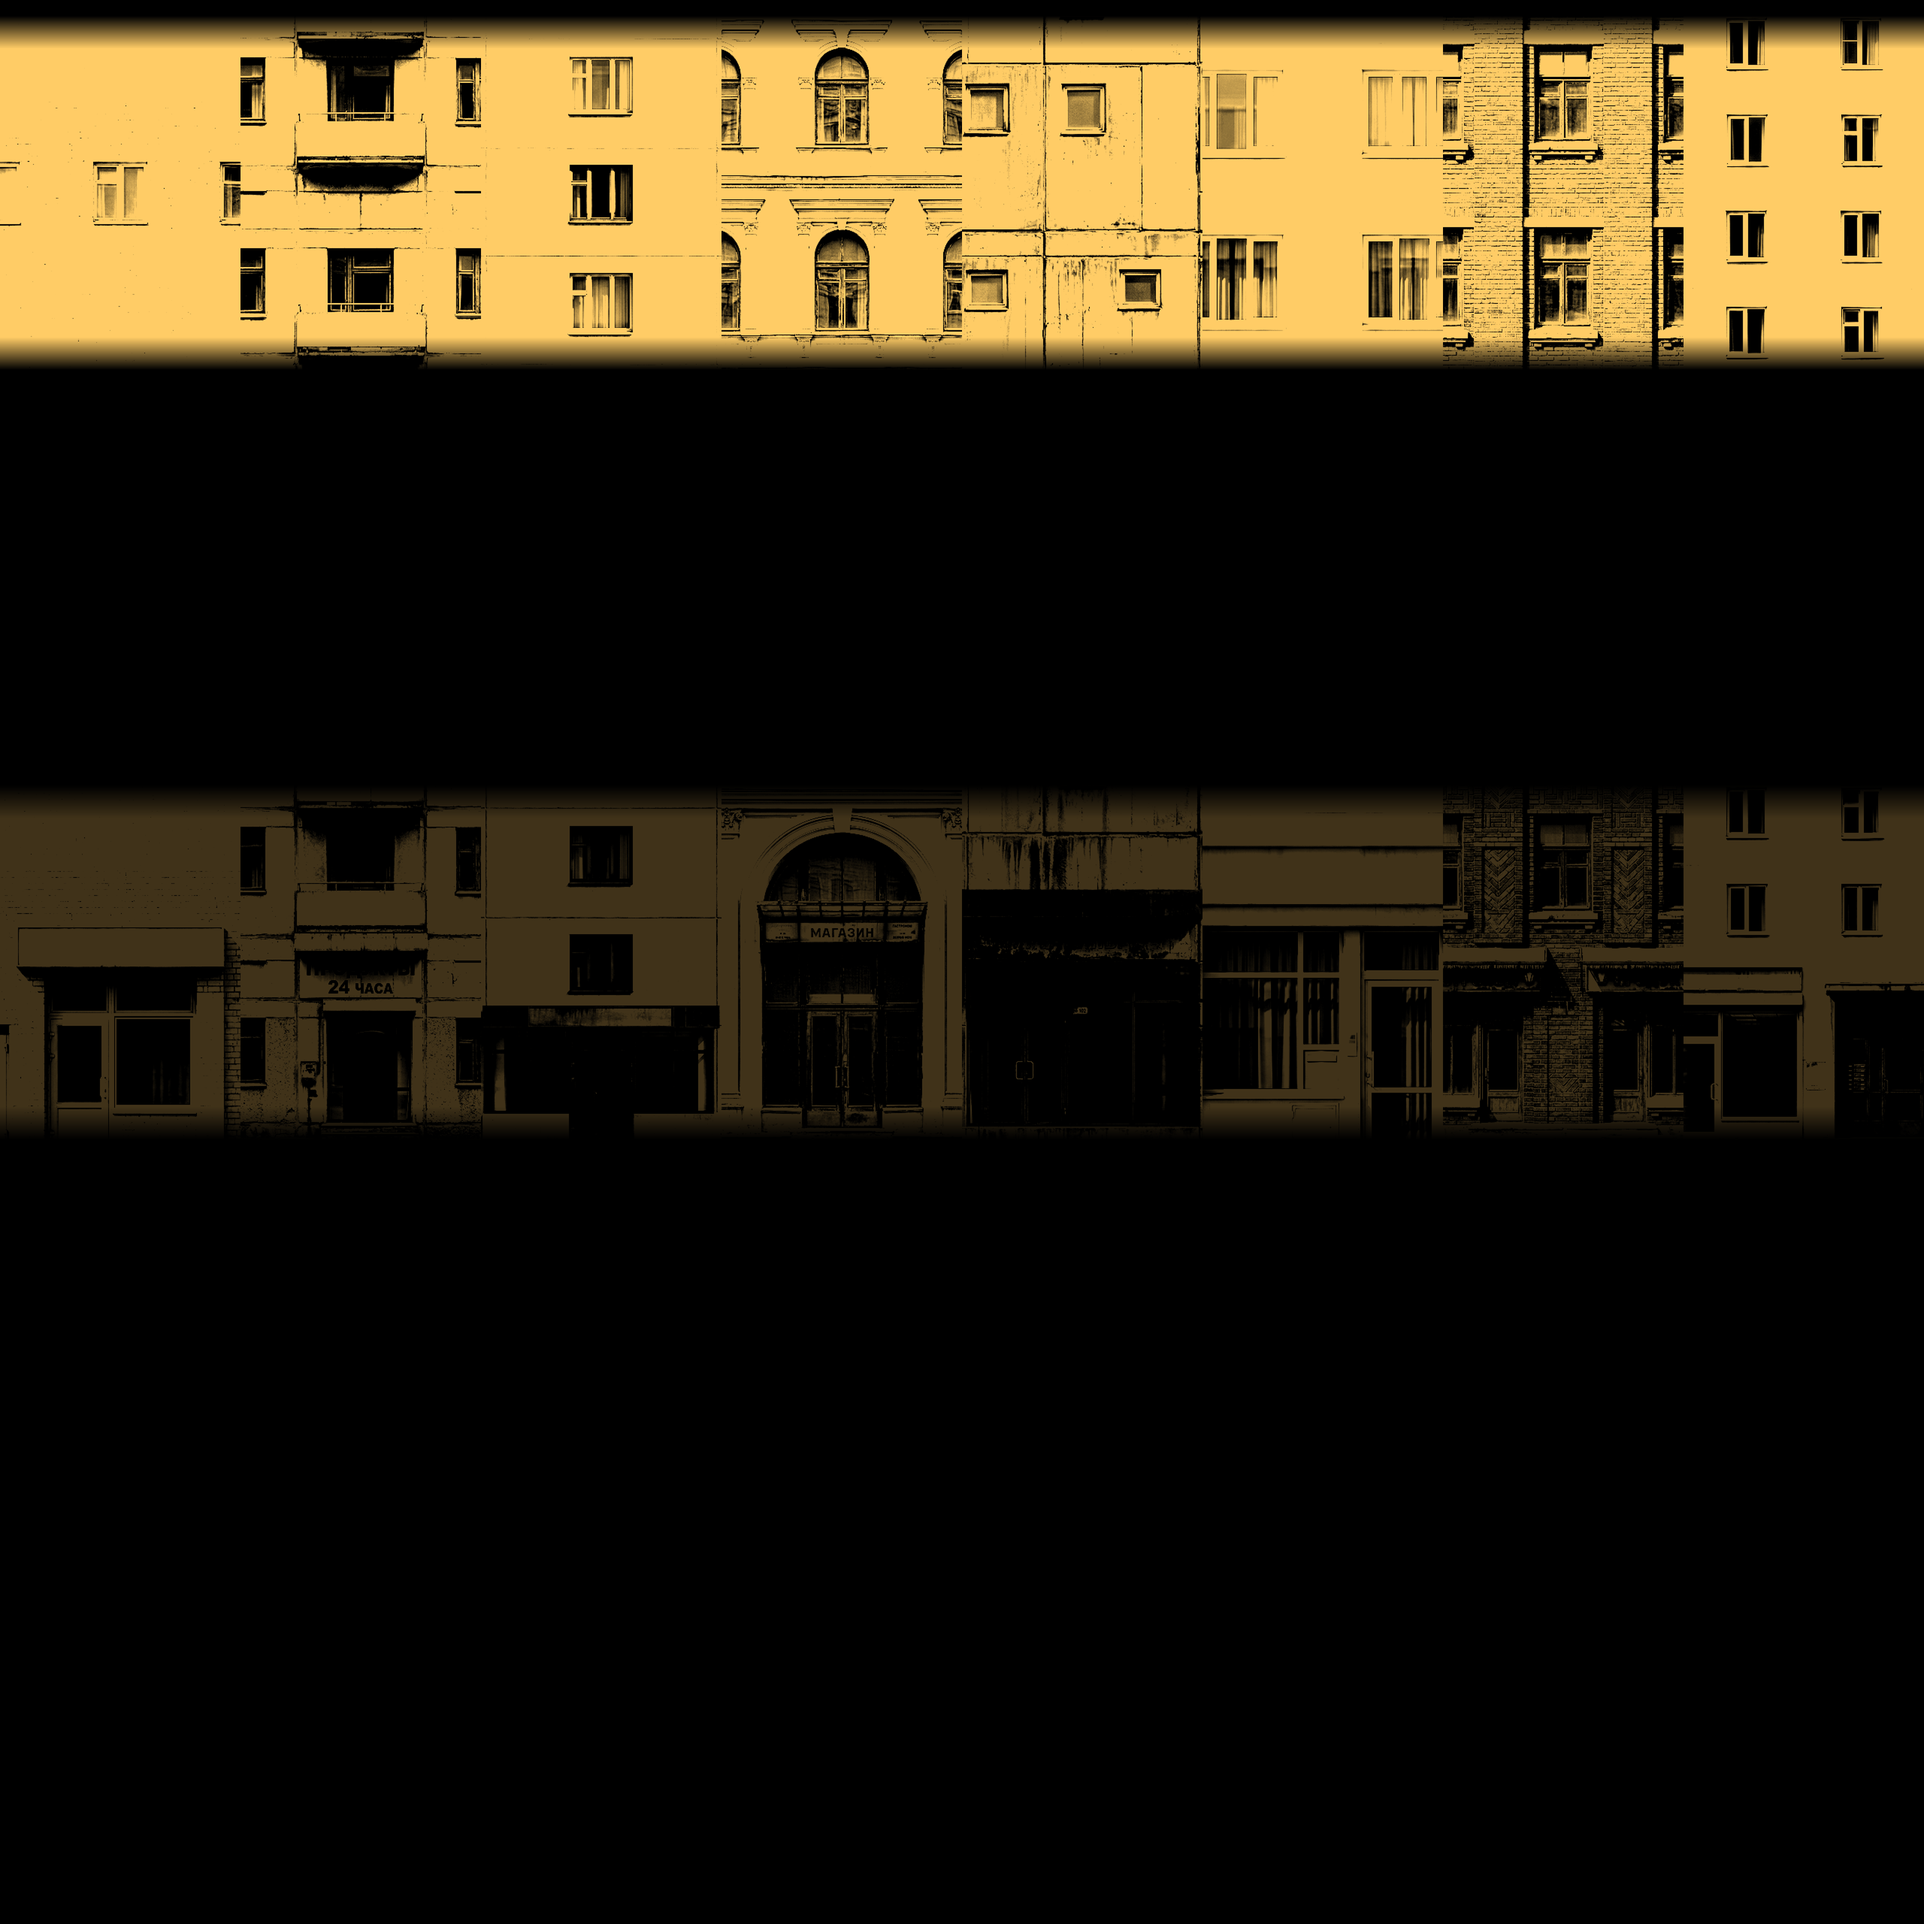
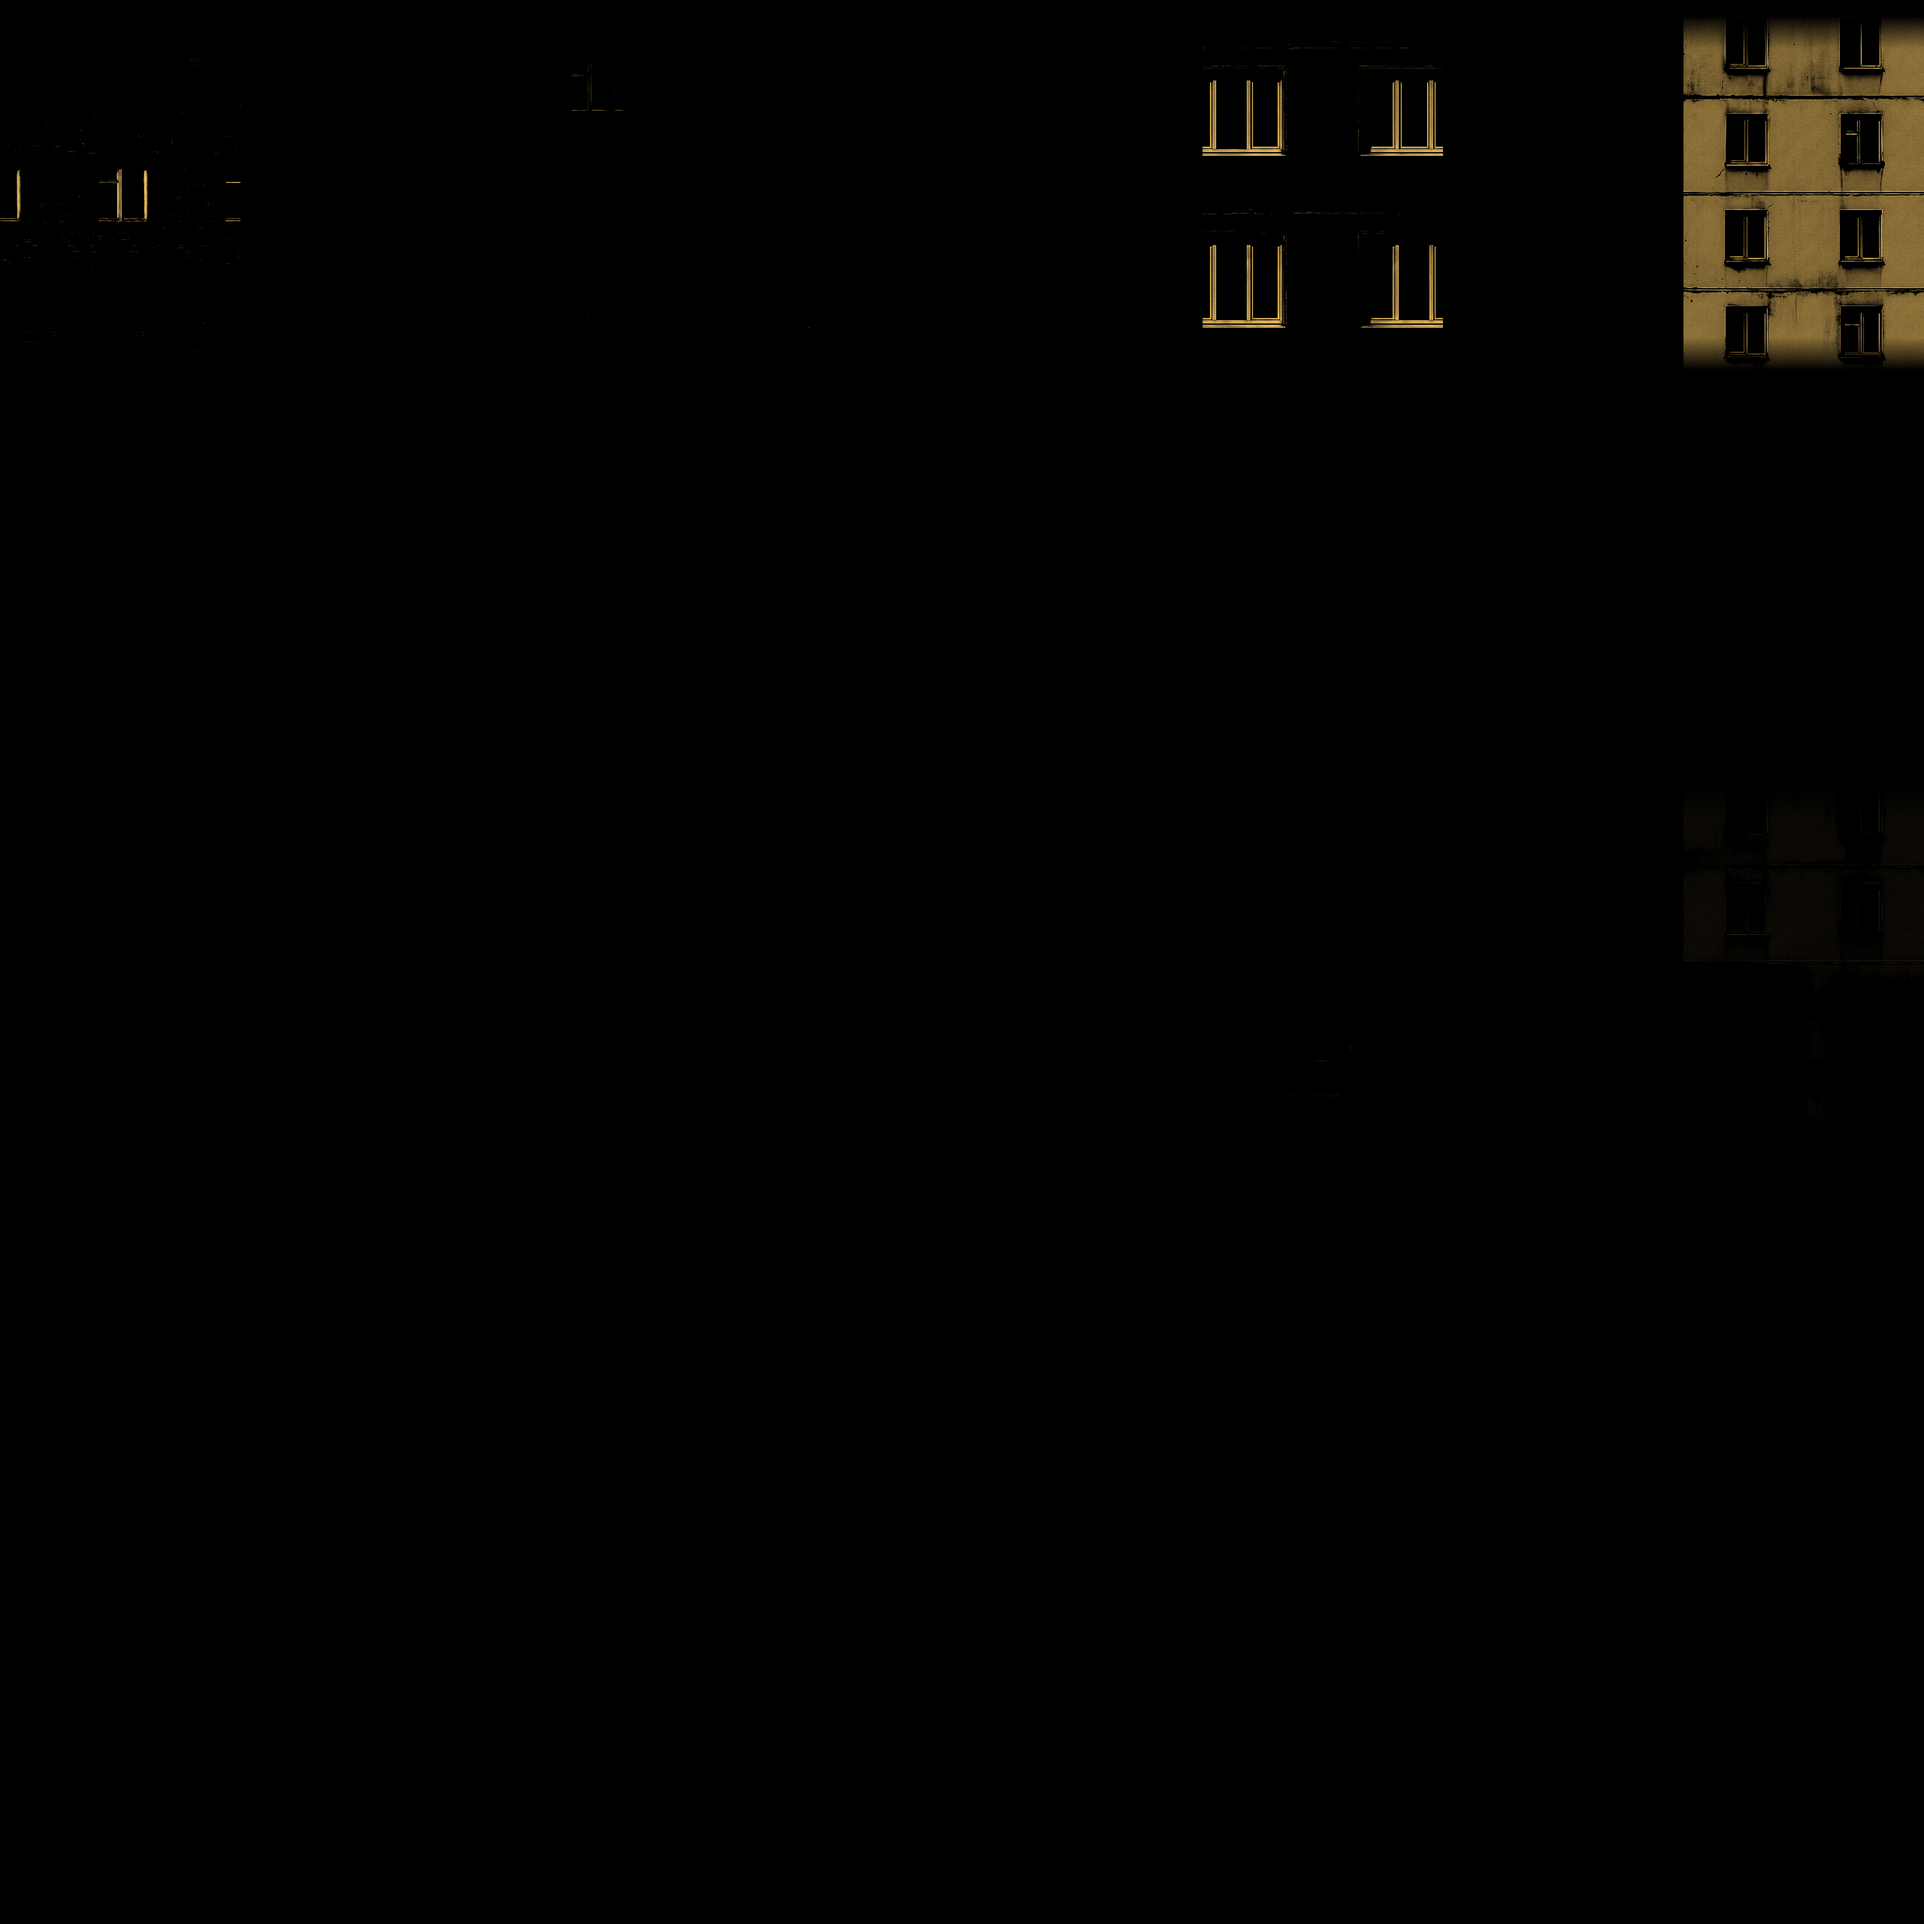
fix: reduce Kiev emissive intensity (uniform bright facades overwhelm glow)
- Raised emissive threshold from adaptive 60→absolute 220 in gen-emissive-normal.mjs
- Reduced Kiev windowLitChance from 0.55→0.25
- Regenerated Kiev emissive mask with stricter threshold

Changed region(s): [[0.0, 0.0, 1.0, 0.2188], [0.0, 0.4062, 1.0, 0.5938]]

diff --git a/src/scene.ts b/src/scene.ts
@@ -267,7 +267,7 @@ export const ENVIRONMENTS: EnvironmentPreset[] = [
       barrierColor: 0x555560,
       buildingPalette: [0x3a3a4a, 0x44445a, 0x2a2a3a, 0x505060, 0x383845, 0x4a4a5a],
       buildingHeightRange: [6, 22],
-      windowLitChance: 0.55, windowColor: 0xffdd88,
+      windowLitChance: 0.25, windowColor: 0xffdd88,
       treeTrunkColor: 0x443322, treeCanopyColor: 0x2a4a2a,
       treeCanopyStyle: 'sphere', treeCount: 40,
       billboardStyle: 'minimal',
